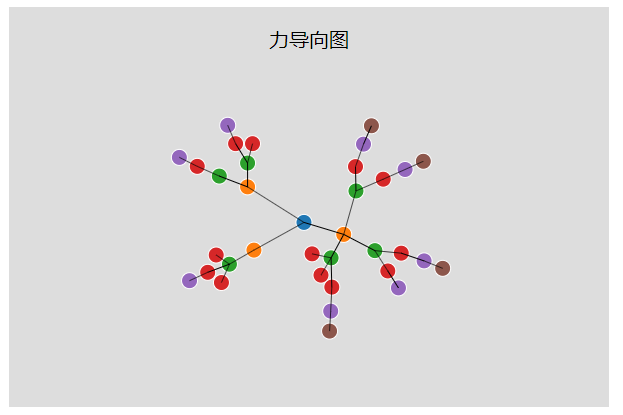
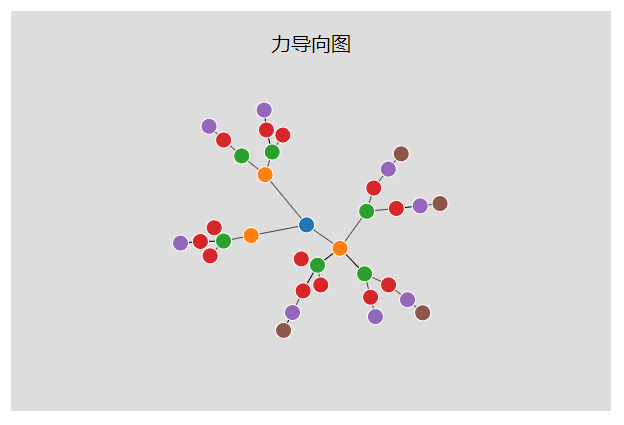
添加河流图，优化力导向图

Changed region(s): [[0.2745, 0.2313, 0.7319, 0.8386], [0.0, 0.0, 0.9759, 0.9831], [0.427, 0.0578, 0.5795, 0.1446]]

diff --git a/src/riverChart/basicRiver/index.js b/src/riverChart/basicRiver/index.js
@@ -1,0 +1,267 @@
+import Chart from "../../chart.js";
+
+d3.csv('./data.csv', function(d){
+    return {
+        date: d.date,
+        house: +d.house,
+        food: +d.food,
+        transportation: +d.transportation,
+        education: +d.education,
+        clothes: +d.clothes
+    };
+}).then(function(data){
+    /* ----------------------------配置参数------------------------  */
+    const chart = new Chart();
+    const config = {
+        margins: {top: 80, left: 80, bottom: 50, right: 80},
+        textColor: 'black',
+        gridColor: 'gray',
+        title: '基础河流图',
+        pointSize: 5,
+        pointColor: 'white',
+        hoverColor: 'red',
+        animateDuration: 1000
+    }
+
+    chart.margins(config.margins);
+
+    /* ----------------------------尺度转换------------------------  */
+    chart.scaleX = d3.scaleTime()
+                    .domain([new Date(data[0].date), new Date(data[data.length-1].date)])
+                    .range([0, chart.getBodyWidth()])
+                    //.ticks(5);
+
+    chart.scaleY = d3.scaleLinear()
+                    .domain([0, (Math.floor((
+                        d3.max(data, (d) => d.house) +
+                        d3.max(data, (d) => d.food) +
+                        d3.max(data, (d) => d.education) +
+                        d3.max(data, (d) => d.transportation) +
+                        d3.max(data, (d) => d.clothes)
+                        )/10) + 1)*10])
+                    .range([chart.getBodyHeight(), 0])
+
+    chart.stack = d3.stack()
+                    .keys(['house', 'food', 'transportation', 'education', 'clothes'])
+                    .order(d3.stackOrderInsideOut)
+                    .offset(d3.stackOffsetWiggle);
+
+    /* ----------------------------渲染面------------------------  */
+    chart.renderArea = function(){
+        const areas = chart.body().insert('g',':first-child')
+                        .attr('transform', 'translate(0, -' +  d3.max(data, (d) => d3.mean(Object.values(d))) + ')')   // 使流图的位置处于Y轴中部
+                        .selectAll('.area')
+                        .data(chart.stack(data));
+
+              areas.enter()
+                        .append('path')
+                        .attr('class', (d) => 'area area-' + d.key)
+                    .merge(areas)
+                        .style('fill', (d,i) => chart._colors(i))
+                        .transition().duration(config.animateDuration)
+                        .attrTween('d', areaTween);
+
+        //中间帧函数
+        function areaTween(_d){
+            if (!_d) return;
+            const generateArea = d3.area()
+                        .x((d) => d[0])
+                        .y0((d) => d[1])
+                        .y1((d) => d[2])
+                        .curve(d3.curveCardinal.tension(0));
+
+            const pointX = data.map((d) => chart.scaleX(new Date(d.date)));
+            const pointY0 = _d.map((d) => chart.scaleY(d[0]));
+            const pointY1 = _d.map((d) => chart.scaleY(d[1]));
+
+            const interpolate = getAreaInterpolate(pointX, pointY0, pointY1);
+
+            const ponits = [];
+
+            return function(t){
+                ponits.push([interpolate.x(t), interpolate.y0(t), interpolate.y1(t)]);
+                return generateArea(ponits);
+            }
+        }
+
+        //点插值
+        function getAreaInterpolate(pointX, pointY0, pointY1){
+
+            const domain = d3.range(0, 1, 1/(pointX.length-1));
+            domain.push(1);
+
+            const interpolateX = d3.scaleLinear()
+                                    .domain(domain)
+                                    .range(pointX);
+
+            const interpolateY0 = d3.scaleLinear()
+                                    .domain(domain)
+                                    .range(pointY0);
+
+             const interpolateY1 = d3.scaleLinear()
+                                    .domain(domain)
+                                    .range(pointY1);
+            return {
+                x: interpolateX,
+                y0: interpolateY0,
+                y1: interpolateY1
+            };
+
+        }
+
+    }
+
+    /* ----------------------------渲染坐标轴------------------------  */
+    chart.renderX = function(){
+        chart.svg().insert('g','.body')
+                .attr('transform', 'translate(' + chart.bodyX() + ',' + (chart.bodyY() + chart.getBodyHeight()) + ')')
+                .attr('class', 'xAxis')
+                .call(d3.axisBottom(chart.scaleX).ticks(d3.timeDay.every(3)).tickFormat((d) => d3.timeFormat("%d")(d)));
+    }
+
+    chart.renderY = function(){
+        chart.svg().insert('g','.body')
+                .attr('transform', 'translate(' + chart.bodyX() + ',' + chart.bodyY() + ')')
+                .attr('class', 'yAxis')
+                .call(d3.axisLeft(chart.scaleY));
+    }
+
+    chart.renderAxis = function(){
+        chart.renderX();
+        chart.renderY();
+    }
+
+    /* ----------------------------渲染文本标签------------------------  */
+    chart.renderText = function(){
+        d3.select('.xAxis').append('text')
+                            .attr('class', 'axisText')
+                            .attr('x', chart.getBodyWidth())
+                            .attr('y', 0)
+                            .attr('fill', config.textColor)
+                            .attr('dy', 40)
+                            .text('日期');
+
+        d3.select('.yAxis').append('text')
+                            .attr('class', 'axisText')
+                            .attr('x', 0)
+                            .attr('y', 0)
+                            .attr('fill', config.textColor)
+                            .attr('transform', 'rotate(-90)')
+                            .attr('dy', -40)
+                            .attr('text-anchor','end')
+                            .text('每日支出（元）');
+    }
+
+    /* ----------------------------渲染网格线------------------------  */
+    chart.renderGrid = function(){
+        d3.selectAll('.xAxis .tick')
+            .append('line')
+            .attr('class','grid')
+            .attr('stroke', config.gridColor)
+            .attr('stroke-dasharray', '10,10')
+            .attr('x1', 0)
+            .attr('y1', 0)
+            .attr('x2', 0)
+            .attr('y2', -chart.getBodyHeight());
+    }
+
+    /* ----------------------------渲染图标题------------------------  */
+    chart.renderTitle = function(){
+        chart.svg().append('text')
+                .classed('title', true)
+                .attr('x', chart.width()/2)
+                .attr('y', 0)
+                .attr('dy', '2em')
+                .text(config.title)
+                .attr('fill', config.textColor)
+                .attr('text-anchor', 'middle')
+                .attr('stroke', config.textColor);
+
+    }
+
+    /* ----------------------------绑定鼠标交互事件------------------------  */
+    chart.addMouseOn = function(){
+        //防抖函数
+        function debounce(fn, time){
+            let timeId = null;
+            return function(){
+                const context = this;
+                const event = d3.event;
+                timeId && clearTimeout(timeId)
+                timeId = setTimeout(function(){
+                    d3.event = event;
+                    fn.apply(context, arguments);
+                }, time);
+            }
+        }
+
+        d3.selectAll('.area')
+            .on('mouseover', function(d){
+                const e = d3.event;
+                const position = d3.mouse(chart.svg().node());
+                e.target.style.cursor = 'hand'
+
+                d3.selectAll('.area')
+                    .attr('fill-opacity', 0.3);
+
+                d3.select(e.target)
+                    .attr('fill-opacity', 1);
+
+                chart.svg()
+                    .append('text')
+                    .classed('tip', true)
+                    .attr('x', position[0]+5)
+                    .attr('y', position[1])
+                    .attr('fill', config.textColor)
+                    .text(d.key);
+            })
+            .on('mouseleave', function(){
+                const e = d3.event;
+
+                d3.selectAll('.area')
+                    .attr('fill-opacity', 1);
+
+                d3.select('.tip').remove();
+            })
+            .on('mousemove', debounce(function(){
+                    const position = d3.mouse(chart.svg().node());
+                    d3.select('.tip')
+                    .attr('x', position[0]+5)
+                    .attr('y', position[1]-5);
+                }, 6)
+            );
+    }
+
+    chart.render = function(){
+
+        chart.renderAxis();
+
+        chart.renderText();
+
+        chart.renderGrid();
+
+        chart.renderTitle();
+
+        chart.renderArea();
+
+        chart.addMouseOn();
+    }
+
+    chart.renderChart();
+
+
+});
+
+
+
+
+
+
+
+
+
+
+
+
+
+

diff --git a/src/riverChart/basicRiver/index.html b/src/riverChart/basicRiver/index.html
@@ -1,0 +1,13 @@
+<html lang="en">
+<head>
+    <meta charset="UTF-8">
+    <meta name="viewport" content="width=device-width, initial-scale=1.0">
+    <meta http-equiv="X-UA-Compatible" content="ie=edge">
+    <title>基础河流图</title>
+    <link rel="stylesheet" type="text/css" href="./index.css" />
+</head>
+<body>
+<script src="../../../lib/d3.js"></script>
+<script src="./index.js" type='module'></script>
+</body>
+</html>

diff --git a/index.html b/index.html
@@ -155,5 +155,13 @@
         </div>
     </div>
 
+    <h2>河流图</h2>
+    <div>
+        <div class="item">
+            <a href="./src/riverChart/basicRiver/index.html"><img src="./pic/riverChart/basicRiver.png" alt="" /></a>
+            <div class="name">基础河流图</div>
+        </div>
+    </div>
+
 </body>
 </html>

diff --git a/src/force/forceLayout/index.js b/src/force/forceLayout/index.js
@@ -75,7 +75,7 @@ chart.renderLinks = function(){
                                 .data(links);
 
           lines.enter()
-                 .append('line')
+                 .insert('line', 'circle')
                  .attr('stroke', config.lineColor)
                  .attr('stroke-width', config.lineWidth);
 

diff --git a/src/riverChart/basicRiver/index.css b/src/riverChart/basicRiver/index.css
@@ -1,0 +1,18 @@
+.box{
+    margin: 10% auto;
+    width: 600px;
+    height: 400px;
+    background-color: #ddd;
+}
+
+.axisText{
+    font-size: 15px;
+}
+
+.title{
+    font-size: 20px;
+}
+
+.area{
+    stroke: none;
+}

diff --git a/readme.md b/readme.md
@@ -65,4 +65,9 @@ npm start
 
 <img src="./pic/force/movingPoint.png" width="290px" /><img src="./pic/force/colorfulBubbles.png" width="290px" /><img src="./pic/force/forceLayout.png" width="290px" />
 
+***
+## 河流图 (riverChart)
+
+<img src="./pic/riverChart/basicRiver.png" width="290px" />
+
 
